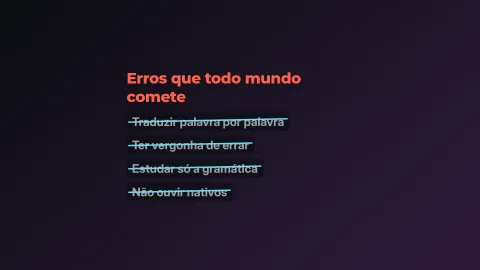
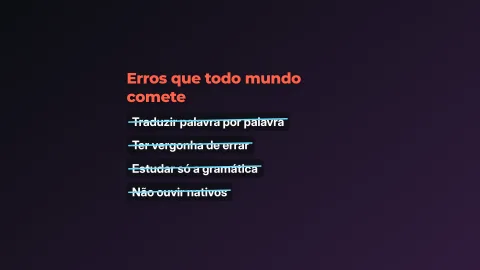
Animação: lista riscada sem mudar a cor do texto.
No CI, o texto que desbotava ao ser riscado dava quadros diferentes para
o mesmo instante; o risco sozinho já mostra o item cumprido.

diff --git a/core/animacoes/lista_riscar.html b/core/animacoes/lista_riscar.html
@@ -15,19 +15,18 @@
 }
 </script>
 <!-- Riscada: cada item entra deslizando e, meio segundo depois, um traço um pouco inclinado (scaleX de 0
-     a 1, a partir da esquerda) passa por cima do texto; o texto apaga um pouco quando é riscado. -->
+     a 1, a partir da esquerda) passa por cima do texto. -->
 <style>
 .lista{position:absolute;left:50%;top:50%;transform:translate(-50%,-50%);width:min(calc(var(--u)*84),88%);display:flex;flex-direction:column;align-items:flex-start;
   gap:calc(var(--u)*1.8);color:var(--cor-texto);animation:sair .45s ease-in calc(var(--dur) - .45s) forwards}
 .titulo{font-family:Montserrat;font-weight:800;font-size:calc(var(--u)*5.6);letter-spacing:-.02em;color:var(--cor-2);margin-bottom:calc(var(--u)*.6);
   text-shadow:0 calc(var(--u)*.3) calc(var(--u)*1.6) rgba(0,0,0,.5);animation:entrar .5s cubic-bezier(.2,.8,.2,1) both}
 .linha{position:relative;padding:calc(var(--u)*.8) calc(var(--u)*2);border-radius:calc(var(--u)*1.4);background:rgba(14,15,20,.78);font-weight:700;font-size:calc(var(--u)*4.4);
-  animation:entrar .45s cubic-bezier(.2,.8,.2,1) calc(.4s + var(--i) * .75s) both,apagar .3s ease-out calc(.95s + var(--i) * .75s) both}
+  animation:entrar .45s cubic-bezier(.2,.8,.2,1) calc(.4s + var(--i) * .75s) both}
 .linha::before{content:"";position:absolute;left:calc(var(--u)*.6);right:calc(var(--u)*.6);top:50%;height:calc(var(--u)*.55);margin-top:calc(var(--u)*-.1);
   border-radius:calc(var(--u)*.3);background:var(--cor-1);transform:rotate(-1.2deg) scaleX(0);transform-origin:0 50%;
   animation:riscar .4s cubic-bezier(.6,0,.3,1) calc(.95s + var(--i) * .75s) forwards}
 @keyframes riscar{to{transform:rotate(-1.2deg) scaleX(1)}}
-@keyframes apagar{to{color:color-mix(in srgb,var(--cor-texto) 60%,transparent)}}
 @keyframes entrar{from{opacity:0;transform:translateX(calc(var(--u)*-3))}}
 @keyframes sair{to{opacity:0;transform:translate(-50%,-46%)}}
 </style>
